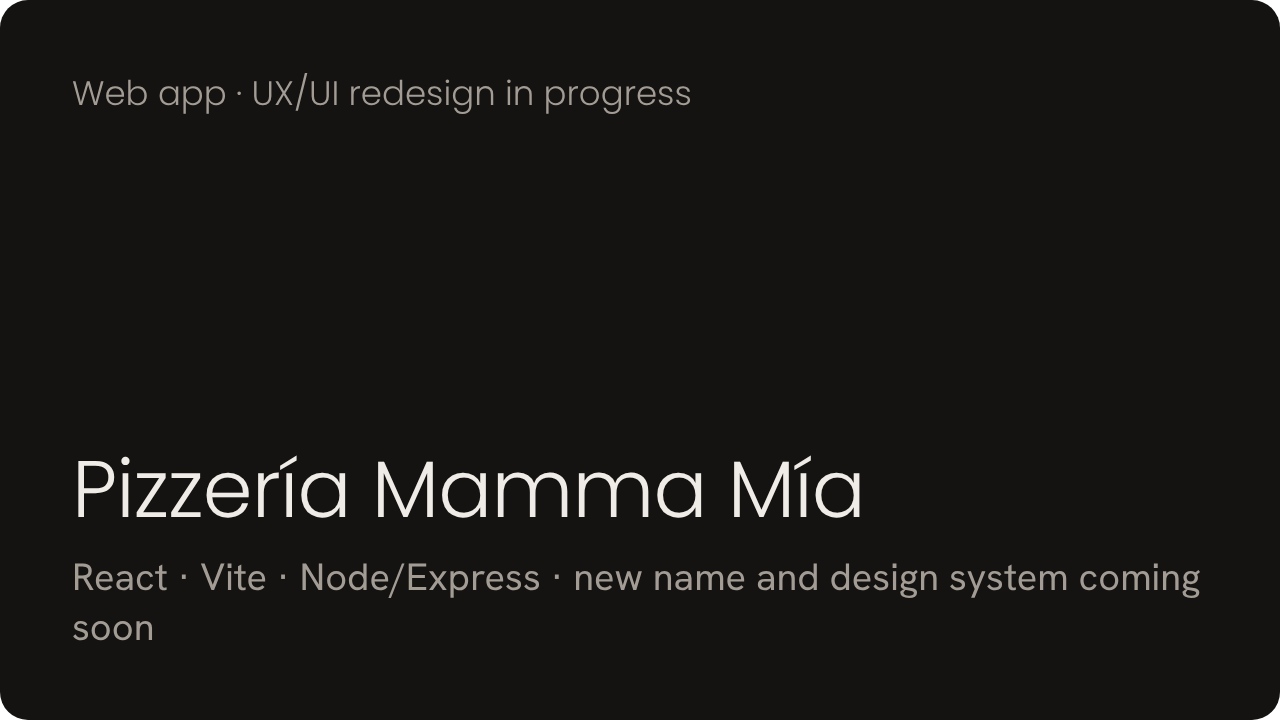
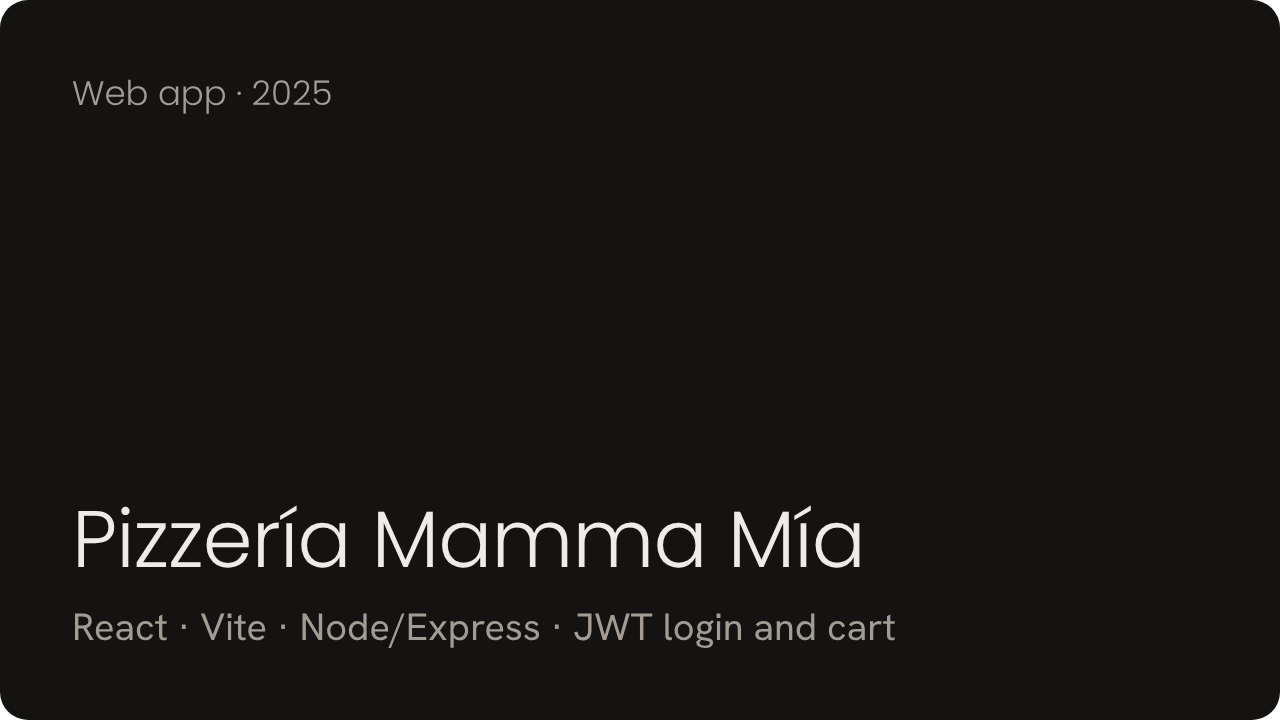
Fix project cards: Mamma Mía as React app, add collector app redesign
Claude-Session: https://claude.ai/code/session_01V5LBZ9PZDRPrRVfDamTeTo

Changed region(s): [[0.0625, 0.6417, 0.9375, 0.825], [0.0625, 0.8556, 0.7188, 0.9167], [0.1875, 0.0917, 0.5312, 0.1528]]

diff --git a/README.md b/README.md
@@ -48,10 +48,11 @@ For more than a decade I've worked with food, hospitality, beauty and culture br
   <img src="assets/card-luva-baby.png" alt="Luva baby — brand and landing page" width="49%">
 </p>
 <p>
-  <img src="assets/card-mamma-mia.png" alt="Pizzería Mamma Mía — web app, UX/UI redesign in progress" width="49%">
-  <img src="assets/card-currency.png" alt="Currency converter — web app" width="49%">
+  <img src="assets/card-collector-app.png" alt="Coin collector app — UX/UI redesign in progress for a masterclass, new name coming soon" width="49%">
+  <img src="assets/card-mamma-mia.png" alt="Pizzería Mamma Mía — React web app" width="49%">
 </p>
 <p>
+  <img src="assets/card-currency.png" alt="Currency converter — web app" width="49%">
   <img src="assets/card-portfolio.png" alt="cristinavergarav.com — portfolio, coming soon" width="49%">
 </p>
 
